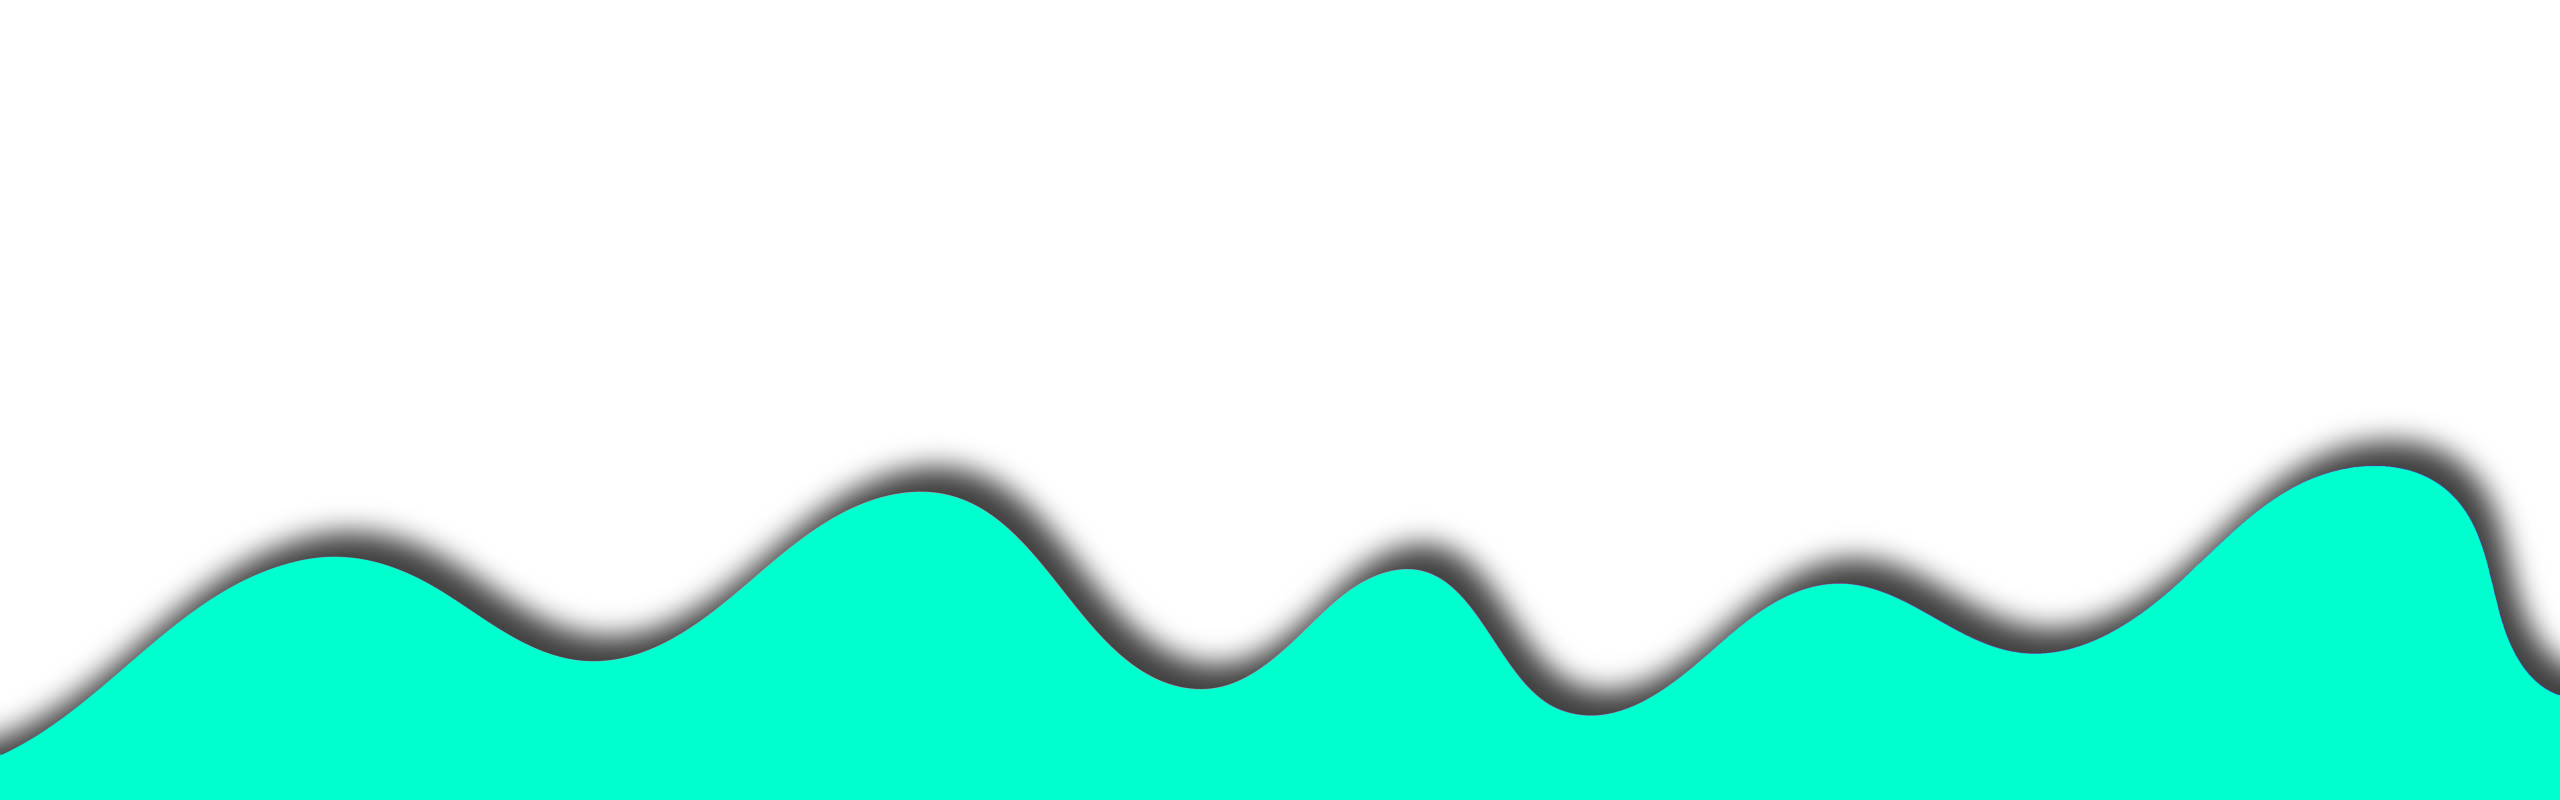
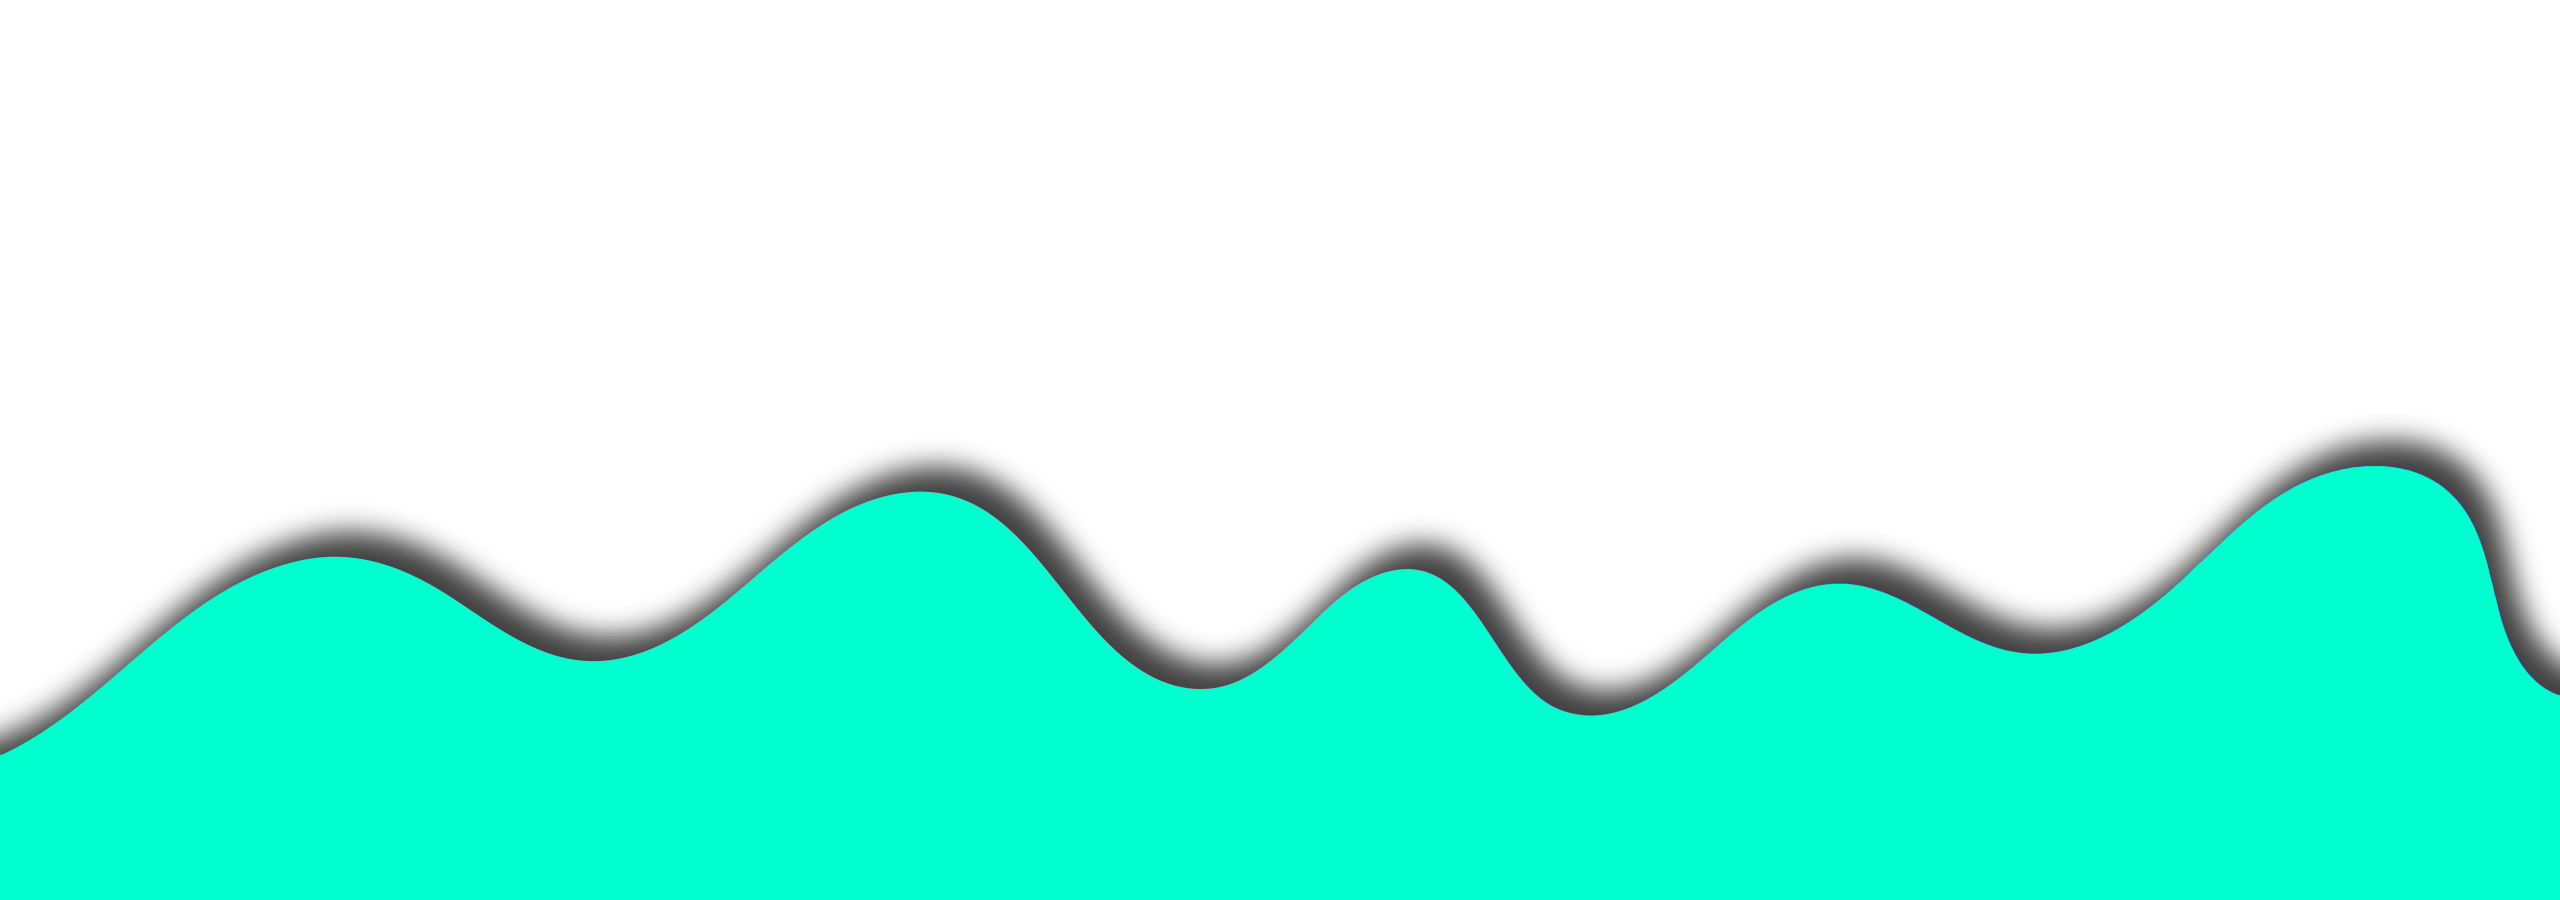
Adjustment

Changed region(s): [[0.0, 0.4688, 1.0, 0.9375]]

diff --git a/parallax1.js b/parallax1.js
@@ -2,11 +2,13 @@ let banner1 = document.getElementById('banner1');
 let banner2 = document.getElementById('banner2');
 let banner3 = document.getElementById('banner3');
 let spacer = document.getElementById('spacer');
+let after = document.getElementById('after');
 
 window.addEventListener('scroll', function(){
     let value = window.scrollY;
     banner1.style.top = value * 0.35 + 'px';
     banner2.style.top = value * 0.2 + 'px';
-    banner3.style.left = value * 0.2 + 'px';
-    spacer.style.height = 'calc(100vw / 3.2 - 10px + ' + (value * 0.2) + 'px)';
+    banner3.style.top = value * 0.1 + 'px';
+    spacer.style.height = 'calc(100vw / 3.2 + ' + (value * 0.2) + 'px)';
+    after.style.marginBottom = 'calc(40vh - '+ (value * 0.2) +'px)';
 });

diff --git a/index.html b/index.html
@@ -56,8 +56,8 @@
       <img id="banner2"  alt="">
       <img id="banner3"  alt="">
     </div>
-    <div id="spacer" style="height:calc(100vw / 3.2 - 10px);"></div>
-    <div class="after">
+    <div id="spacer" style="height:calc(100vw / 3.2);"></div>
+    <div id="after" class="after" style="margin-bottom:40vh">
       <div class="content">
         <h1>Content</h1>
         <h2>Lorem ipsum dolor sit amet, consectetur adipiscing elit, sed do eiusmod tempor incididunt ut labore et dolore magna aliqua.

diff --git a/website smu.css b/website smu.css
@@ -102,7 +102,10 @@ a.button button:active {
 
 div.after{
   background-color: var(--bg);
-  margin-bottom: 50px;
+}
+
+div.spacer, div.after {
+  margin:0;
 }
 
 div.content{
